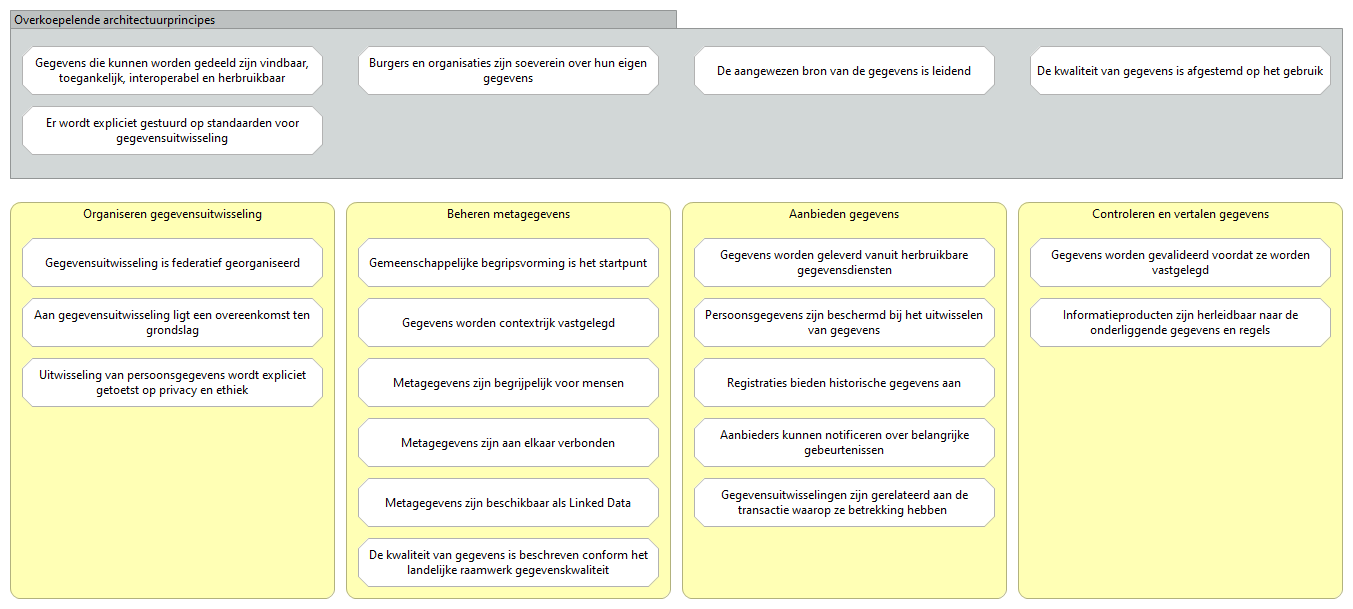
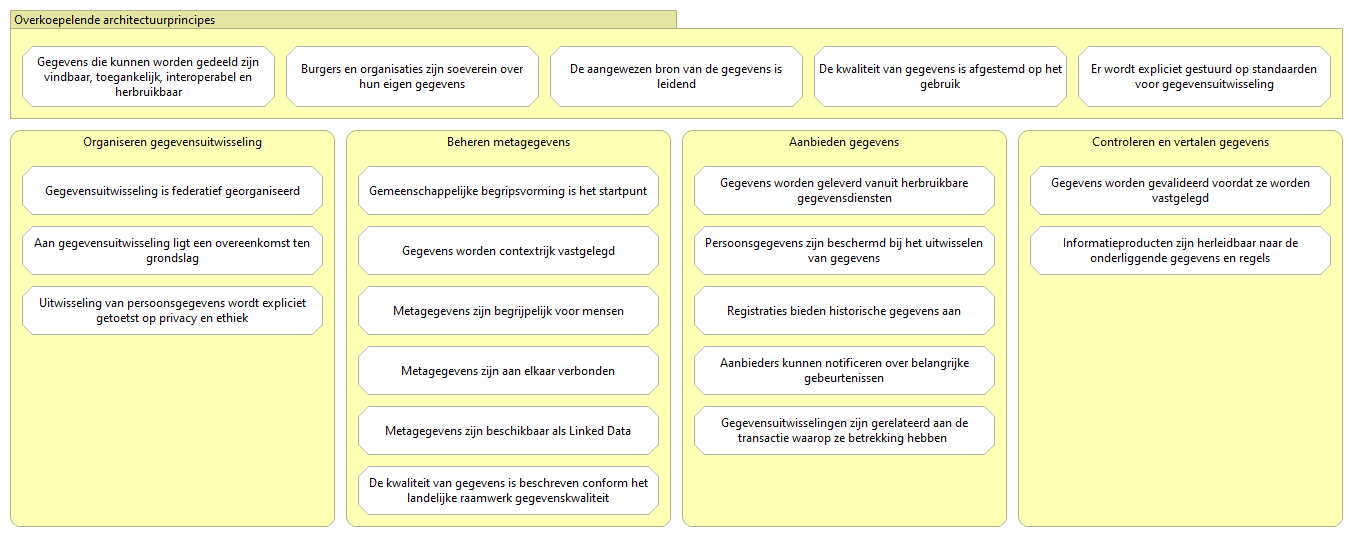
architectuurprincipes gehergroepeerd

diff --git a/docs/id-06c6c1de430644b9adb865225da06cba/views/id-4e701366fd844120b700c114068bc91e.html b/docs/id-06c6c1de430644b9adb865225da06cba/views/id-4e701366fd844120b700c114068bc91e.html
@@ -33,37 +33,37 @@
 		    <!-- If this is a digram model (has children and no bounds) show the image -->
 			   <img class="diagram" src="../images/id-4e701366fd844120b700c114068bc91e.png" alt="Architectuurprincipes geplot op functiemodel" usemap="#id-4e701366fd844120b700c114068bc91emap"/>
 			   <map name="id-4e701366fd844120b700c114068bc91emap">
-				  				<area shape="rect" coords="22,106,323,155" href="../elements/id-6857a45330d3428fa0562f7db033d6df.html"  target="element">
-				  				<area shape="rect" coords="1030,46,1331,95" href="../elements/id-ff18baf9106743c8a7e736233cc94522.html"  target="element">
-				  				<area shape="rect" coords="358,46,659,95" href="../elements/id-14c201edcfb34a50864c0c511971e767.html"  target="element">
-				  				<area shape="rect" coords="694,46,995,95" href="../elements/id-9ad7c4b354e34226a5d86d81f8adf280.html"  target="element">
-				  				<area shape="rect" coords="22,46,323,95" href="../elements/id-a3ff1bdac53d4cf28526f9f3f360ffcf.html"  target="element">
+				  				<area shape="rect" coords="1078,46,1331,107" href="../elements/id-6857a45330d3428fa0562f7db033d6df.html"  target="element">
+				  				<area shape="rect" coords="814,46,1067,107" href="../elements/id-ff18baf9106743c8a7e736233cc94522.html"  target="element">
+				  				<area shape="rect" coords="286,46,539,107" href="../elements/id-14c201edcfb34a50864c0c511971e767.html"  target="element">
+				  				<area shape="rect" coords="550,46,803,107" href="../elements/id-9ad7c4b354e34226a5d86d81f8adf280.html"  target="element">
+				  				<area shape="rect" coords="22,46,275,107" href="../elements/id-a3ff1bdac53d4cf28526f9f3f360ffcf.html"  target="element">
 
-				          <area shape="rect" coords="10,10,1343,179" href="../objects/id-65a1f3adba71433e87518601ef934f33.html" target="element" >
-				  				<area shape="rect" coords="1030,298,1331,347" href="../elements/id-6105d026a74846a09e27cae12adde94b.html"  target="element">
-				  				<area shape="rect" coords="1030,238,1331,287" href="../elements/id-3bb134dd13654c57a6395ace8aca98d5.html"  target="element">
+				          <area shape="rect" coords="10,10,1343,119" href="../objects/id-65a1f3adba71433e87518601ef934f33.html" target="element" >
+				  				<area shape="rect" coords="1030,226,1331,275" href="../elements/id-6105d026a74846a09e27cae12adde94b.html"  target="element">
+				  				<area shape="rect" coords="1030,166,1331,215" href="../elements/id-3bb134dd13654c57a6395ace8aca98d5.html"  target="element">
 
-				  		<area shape="rect" coords="1018,202,1343,599" href="../elements/id-592dc350d1034ca280d27157e17ba09d.html"  target="element">
-				  				<area shape="rect" coords="358,238,659,287" href="../elements/id-108681ef00724a4ba689f412dd9ba257.html"  target="element">
-				  				<area shape="rect" coords="358,298,659,347" href="../elements/id-bd8dcf895771403b83f1391690898a82.html"  target="element">
-				  				<area shape="rect" coords="358,478,659,527" href="../elements/id-2c34fea9221d49f294b723e9a871cd47.html"  target="element">
-				  				<area shape="rect" coords="358,418,659,467" href="../elements/id-ed8bb4317e15400a813ffc816f0823cb.html"  target="element">
-				  				<area shape="rect" coords="358,358,659,407" href="../elements/id-1786a7952d0e4aa9882e7416ba13c3d7.html"  target="element">
-				  				<area shape="rect" coords="358,538,659,587" href="../elements/id-20f197627a654049b7c1ffff515291f3.html"  target="element">
+				  		<area shape="rect" coords="1018,130,1343,527" href="../elements/id-592dc350d1034ca280d27157e17ba09d.html"  target="element">
+				  				<area shape="rect" coords="358,166,659,215" href="../elements/id-108681ef00724a4ba689f412dd9ba257.html"  target="element">
+				  				<area shape="rect" coords="358,226,659,275" href="../elements/id-bd8dcf895771403b83f1391690898a82.html"  target="element">
+				  				<area shape="rect" coords="358,406,659,455" href="../elements/id-2c34fea9221d49f294b723e9a871cd47.html"  target="element">
+				  				<area shape="rect" coords="358,346,659,395" href="../elements/id-ed8bb4317e15400a813ffc816f0823cb.html"  target="element">
+				  				<area shape="rect" coords="358,286,659,335" href="../elements/id-1786a7952d0e4aa9882e7416ba13c3d7.html"  target="element">
+				  				<area shape="rect" coords="358,466,659,515" href="../elements/id-20f197627a654049b7c1ffff515291f3.html"  target="element">
 
-				  		<area shape="rect" coords="346,202,671,599" href="../elements/id-e8e0fadbd63b479d95144f268ac1d2af.html"  target="element">
-				  				<area shape="rect" coords="22,358,323,407" href="../elements/id-b6735b8d80074ebeac5fe0e617f00bc0.html"  target="element">
-				  				<area shape="rect" coords="22,238,323,287" href="../elements/id-8418d8cf38694245bdd592d1a4583f1e.html"  target="element">
-				  				<area shape="rect" coords="22,298,323,347" href="../elements/id-c91ec57c463b49b8b41aabb971743a9e.html"  target="element">
+				  		<area shape="rect" coords="346,130,671,527" href="../elements/id-e8e0fadbd63b479d95144f268ac1d2af.html"  target="element">
+				  				<area shape="rect" coords="22,286,323,335" href="../elements/id-b6735b8d80074ebeac5fe0e617f00bc0.html"  target="element">
+				  				<area shape="rect" coords="22,166,323,215" href="../elements/id-8418d8cf38694245bdd592d1a4583f1e.html"  target="element">
+				  				<area shape="rect" coords="22,226,323,275" href="../elements/id-c91ec57c463b49b8b41aabb971743a9e.html"  target="element">
 
-				  		<area shape="rect" coords="10,202,335,599" href="../elements/id-80e3338ec5a94dc4a0bab92c6d9b286a.html"  target="element">
-				  				<area shape="rect" coords="694,478,995,527" href="../elements/id-deb4667d24eb494c919800436a77358c.html"  target="element">
-				  				<area shape="rect" coords="694,238,995,287" href="../elements/id-95d4a5adf6e44308b2126fb23ae66a73.html"  target="element">
-				  				<area shape="rect" coords="694,418,995,467" href="../elements/id-b72405ee2dea40629a0a330260ede075.html"  target="element">
-				  				<area shape="rect" coords="694,358,995,407" href="../elements/id-bdcd0549c55a402c8d987ba3faae094f.html"  target="element">
-				  				<area shape="rect" coords="694,298,995,347" href="../elements/id-a1d7faf077c6431d81a6acd66ffc5b29.html"  target="element">
+				  		<area shape="rect" coords="10,130,335,527" href="../elements/id-80e3338ec5a94dc4a0bab92c6d9b286a.html"  target="element">
+				  				<area shape="rect" coords="694,406,995,455" href="../elements/id-deb4667d24eb494c919800436a77358c.html"  target="element">
+				  				<area shape="rect" coords="694,166,995,215" href="../elements/id-95d4a5adf6e44308b2126fb23ae66a73.html"  target="element">
+				  				<area shape="rect" coords="694,346,995,395" href="../elements/id-b72405ee2dea40629a0a330260ede075.html"  target="element">
+				  				<area shape="rect" coords="694,286,995,335" href="../elements/id-bdcd0549c55a402c8d987ba3faae094f.html"  target="element">
+				  				<area shape="rect" coords="694,226,995,275" href="../elements/id-a1d7faf077c6431d81a6acd66ffc5b29.html"  target="element">
 
-				  		<area shape="rect" coords="682,202,1007,599" href="../elements/id-0da09931f8ac4b368c786703913087bf.html"  target="element">
+				  		<area shape="rect" coords="682,130,1007,527" href="../elements/id-0da09931f8ac4b368c786703913087bf.html"  target="element">
 
 			   </map>
 
